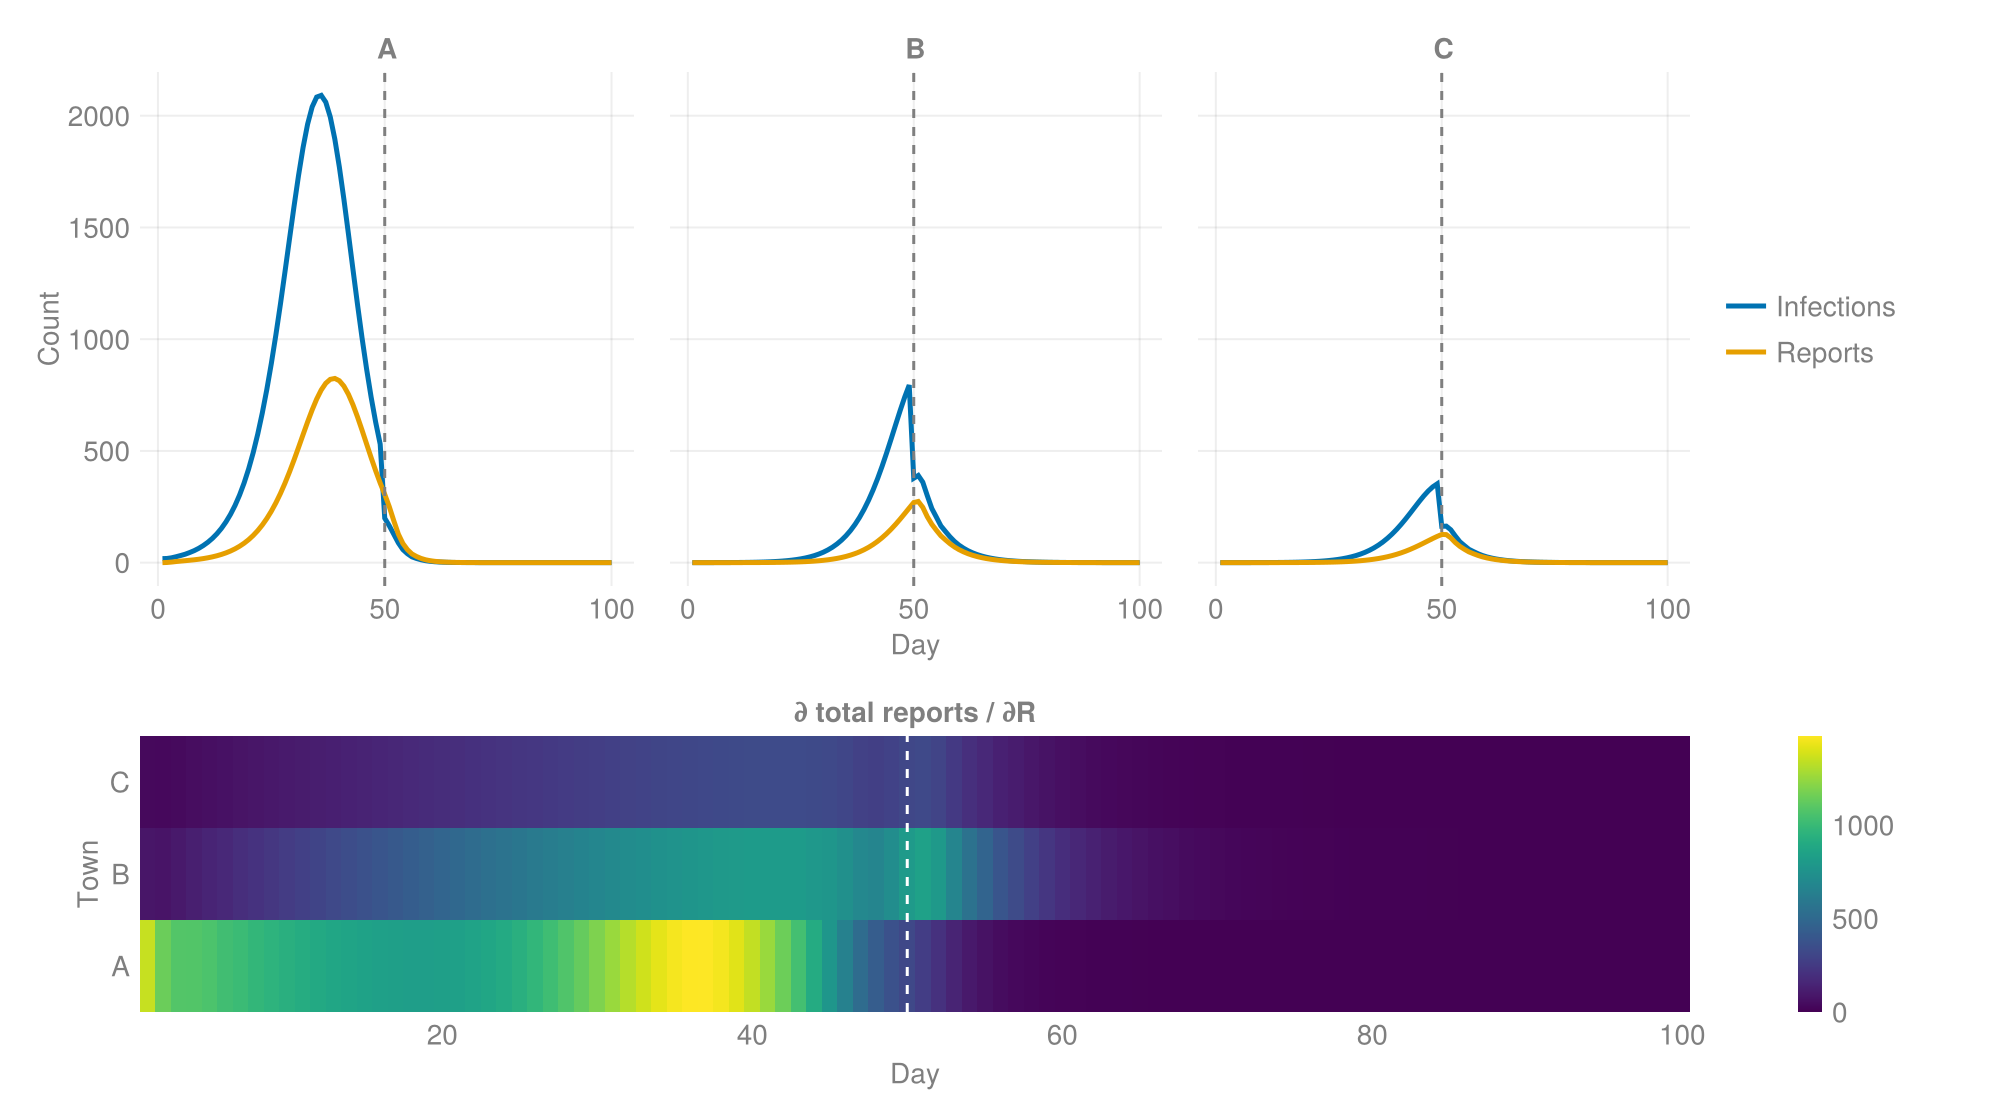
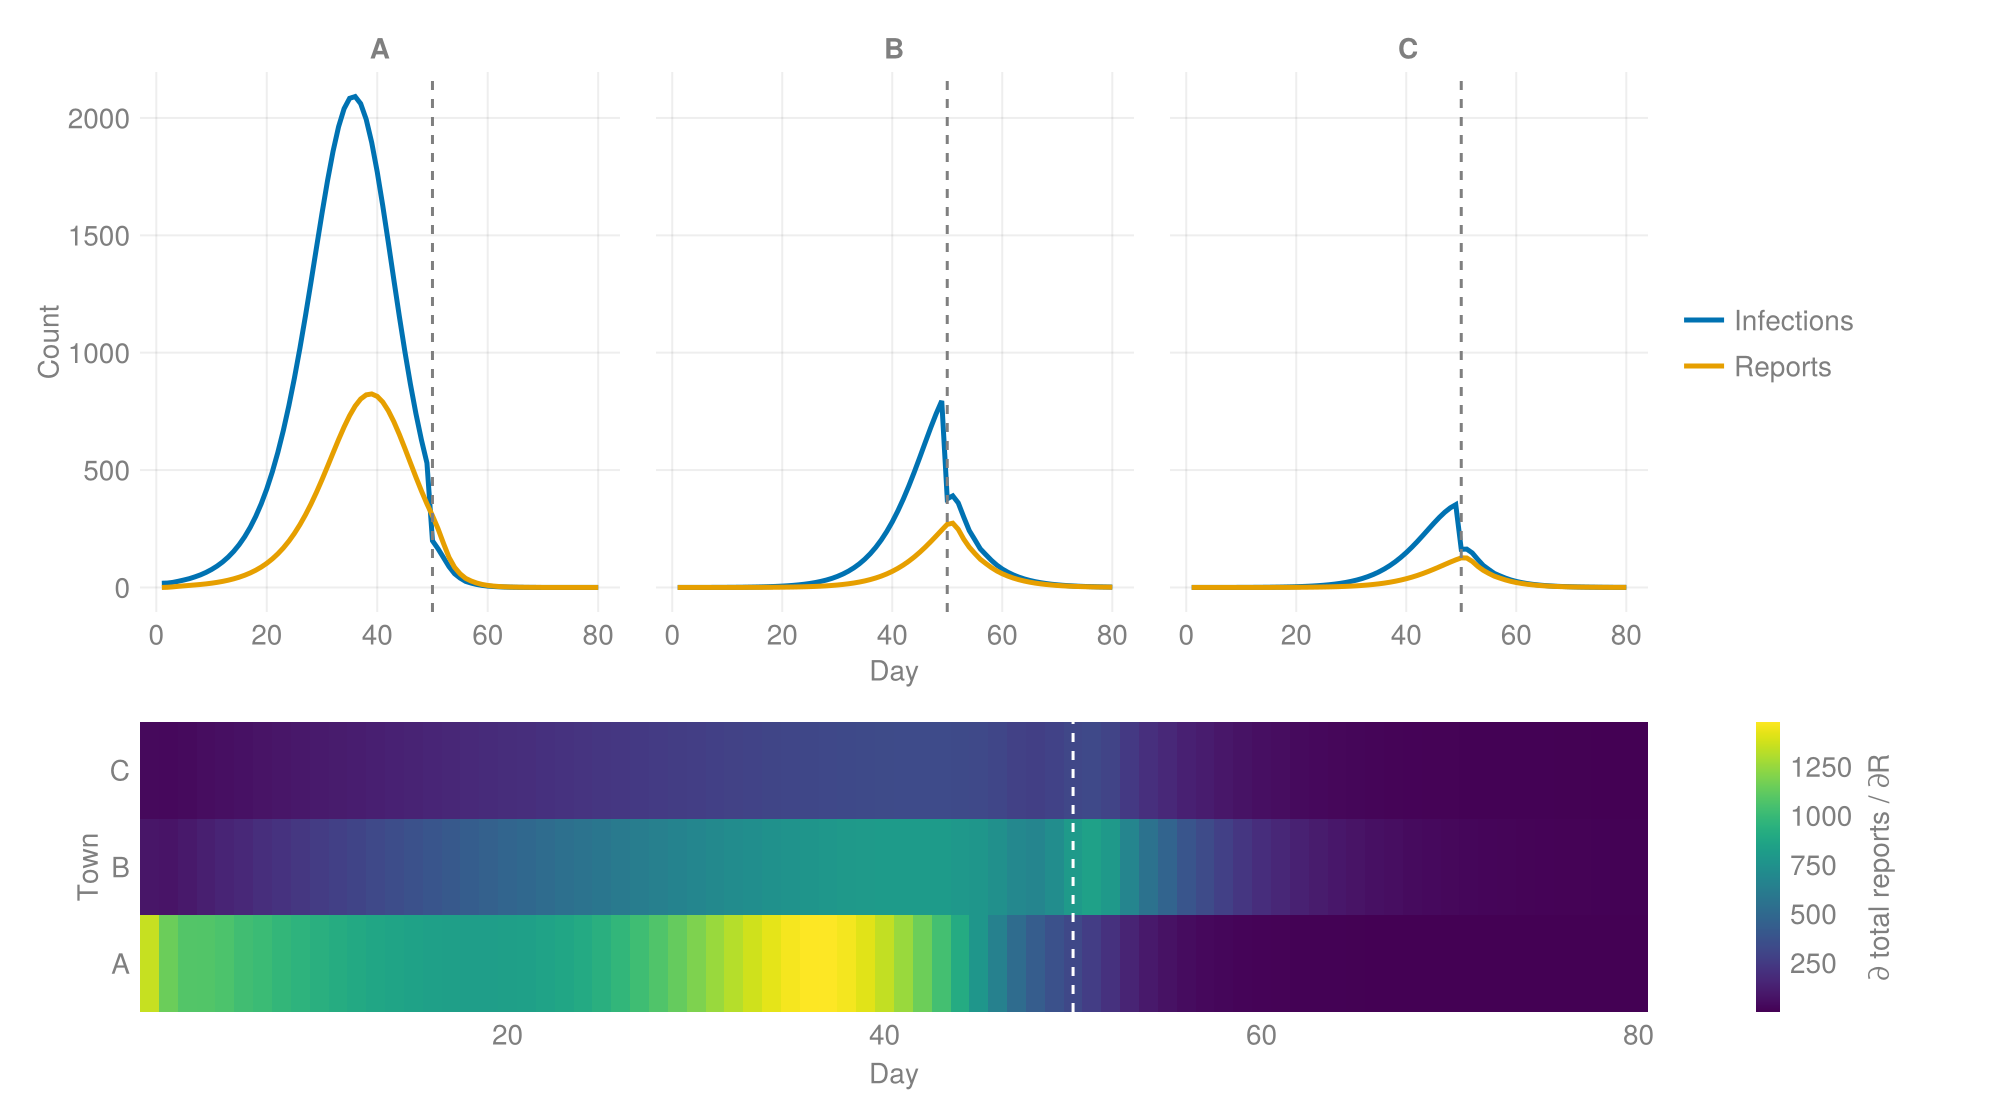
docs(readme): build the figure data with @chain and plain-terms intro

diff --git a/docs/src/getting-started/index.md b/docs/src/getting-started/index.md
@@ -4,7 +4,7 @@ Recurrences and causal convolutions are usually hand-written loops, rewritten fo
 ComposableRecurrences expresses them as two operators.
 `Recurrence` steps a series forward from a kernel-weighted window of its own past.
 `Convolution` weights past inputs by a kernel.
-Couplings link many series, and modifiers add behaviour such as finite pools or bounds to each step.
+Many series can be linked so that each one feeds the others, and extra behaviour such as finite pools or bounds can be added to each step.
 Every operator is differentiable, so a model built from them can be fitted with gradient-based methods.
 
 ## A first example
